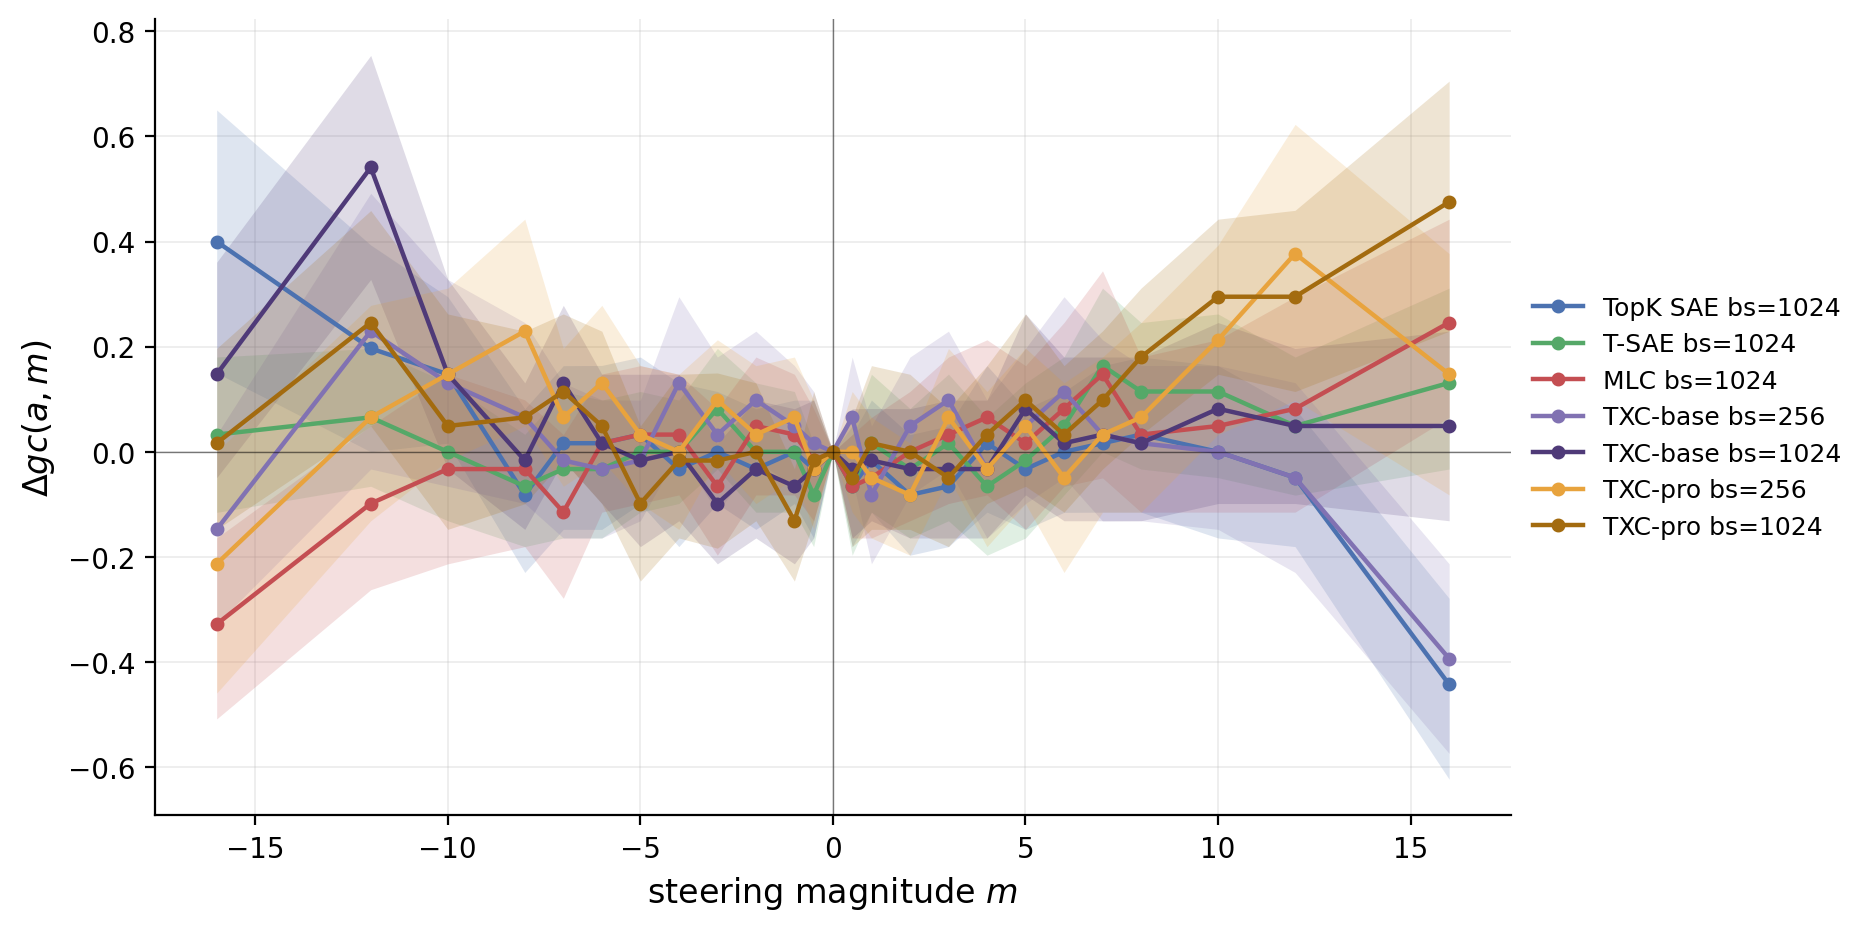
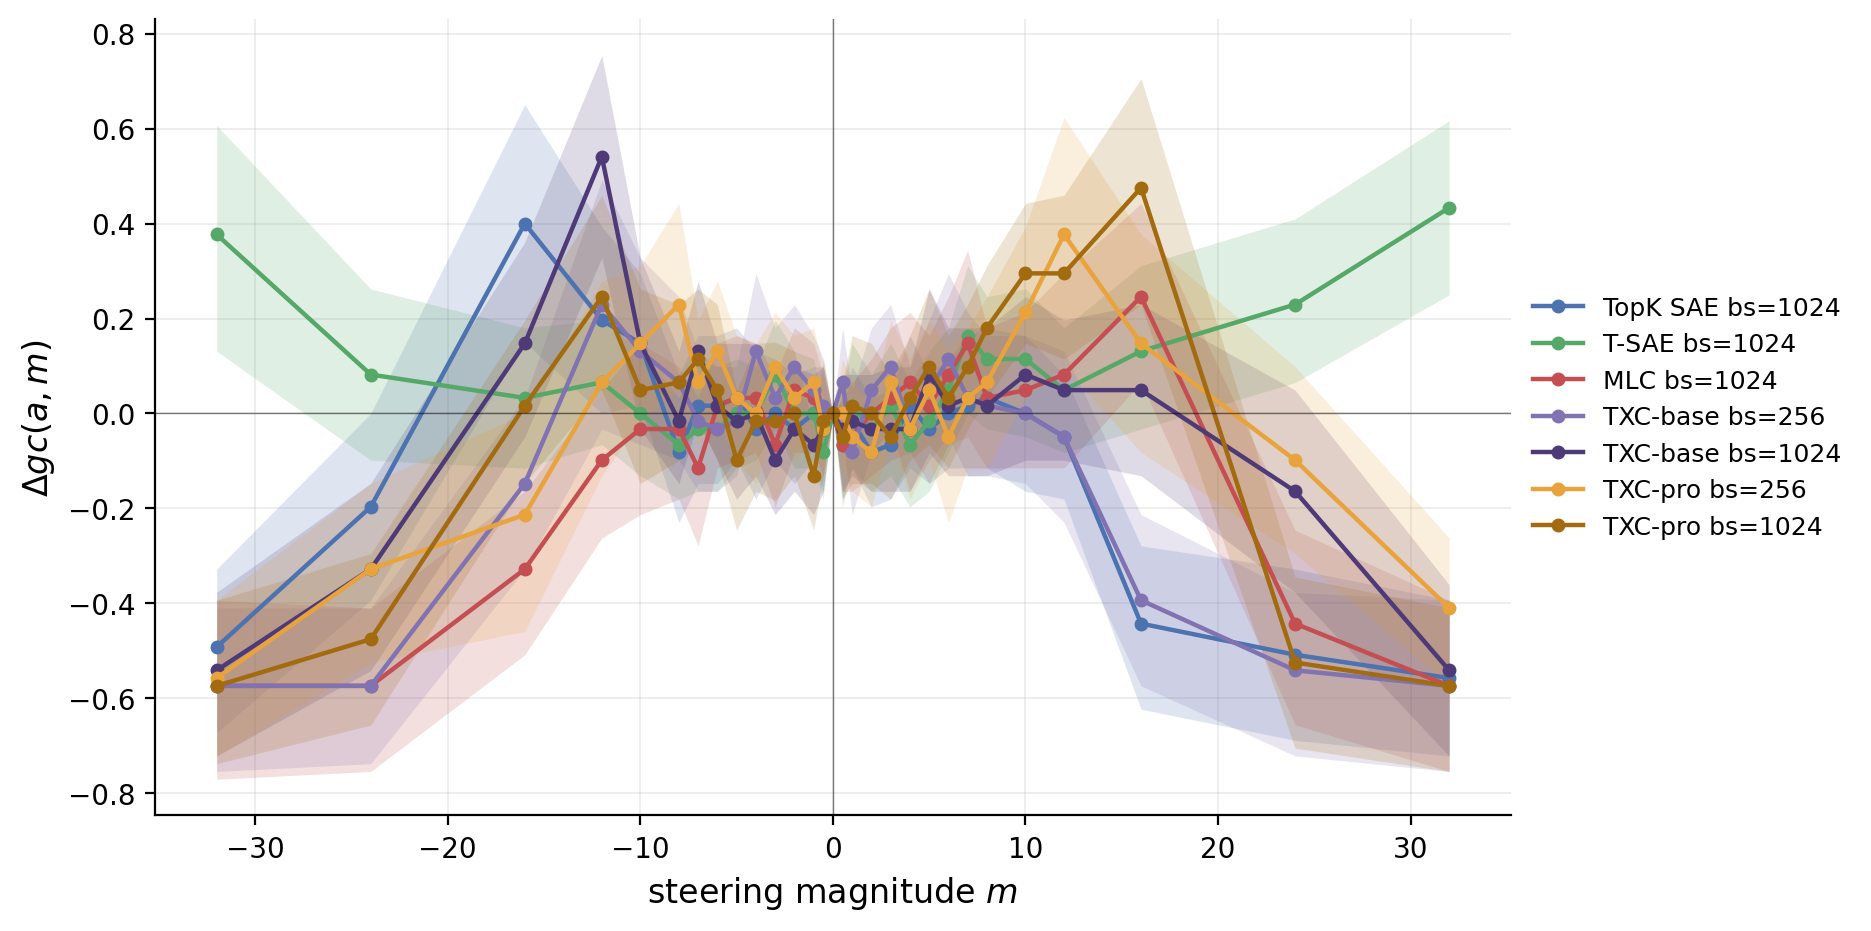
c7 paper: re-render Δgc-vs-magnitude with extended-mags points (±24, ±32)
Re-render after the eval_key-skew fix in scripts/c7_paper_renderer.py
(extended-300k 4ad948a5). The curve now spans the full ±32 range for
every cell, not just ±16. Notable: T-SAE maintains modestly positive
Δgc out at the tails while every other architecture collapses sharply
negative for |m| ≥ 24.

diff --git a/purified/docs/components/c7_paper_results.md b/purified/docs/components/c7_paper_results.md
@@ -1,6 +1,6 @@
 # C7 — Backtracking case study: results bundle (autogenerated)
 
-_Last updated: 2026-05-06 17:36:42 UTC._  _Source: `purified/results/leaderboard.jsonl` filtered to `component == 'c7'`._
+_Last updated: 2026-05-06 17:46:25 UTC._  _Source: `purified/results/leaderboard.jsonl` filtered to `component == 'c7'`._
 
 **Cells in leaderboard:** 14 (7 extended-mags follow-up).  **Architectures present:** MLC, TopK SAE, T-SAE, TXC-base, TXC-pro.  **Still pending:** (all five present).
 
